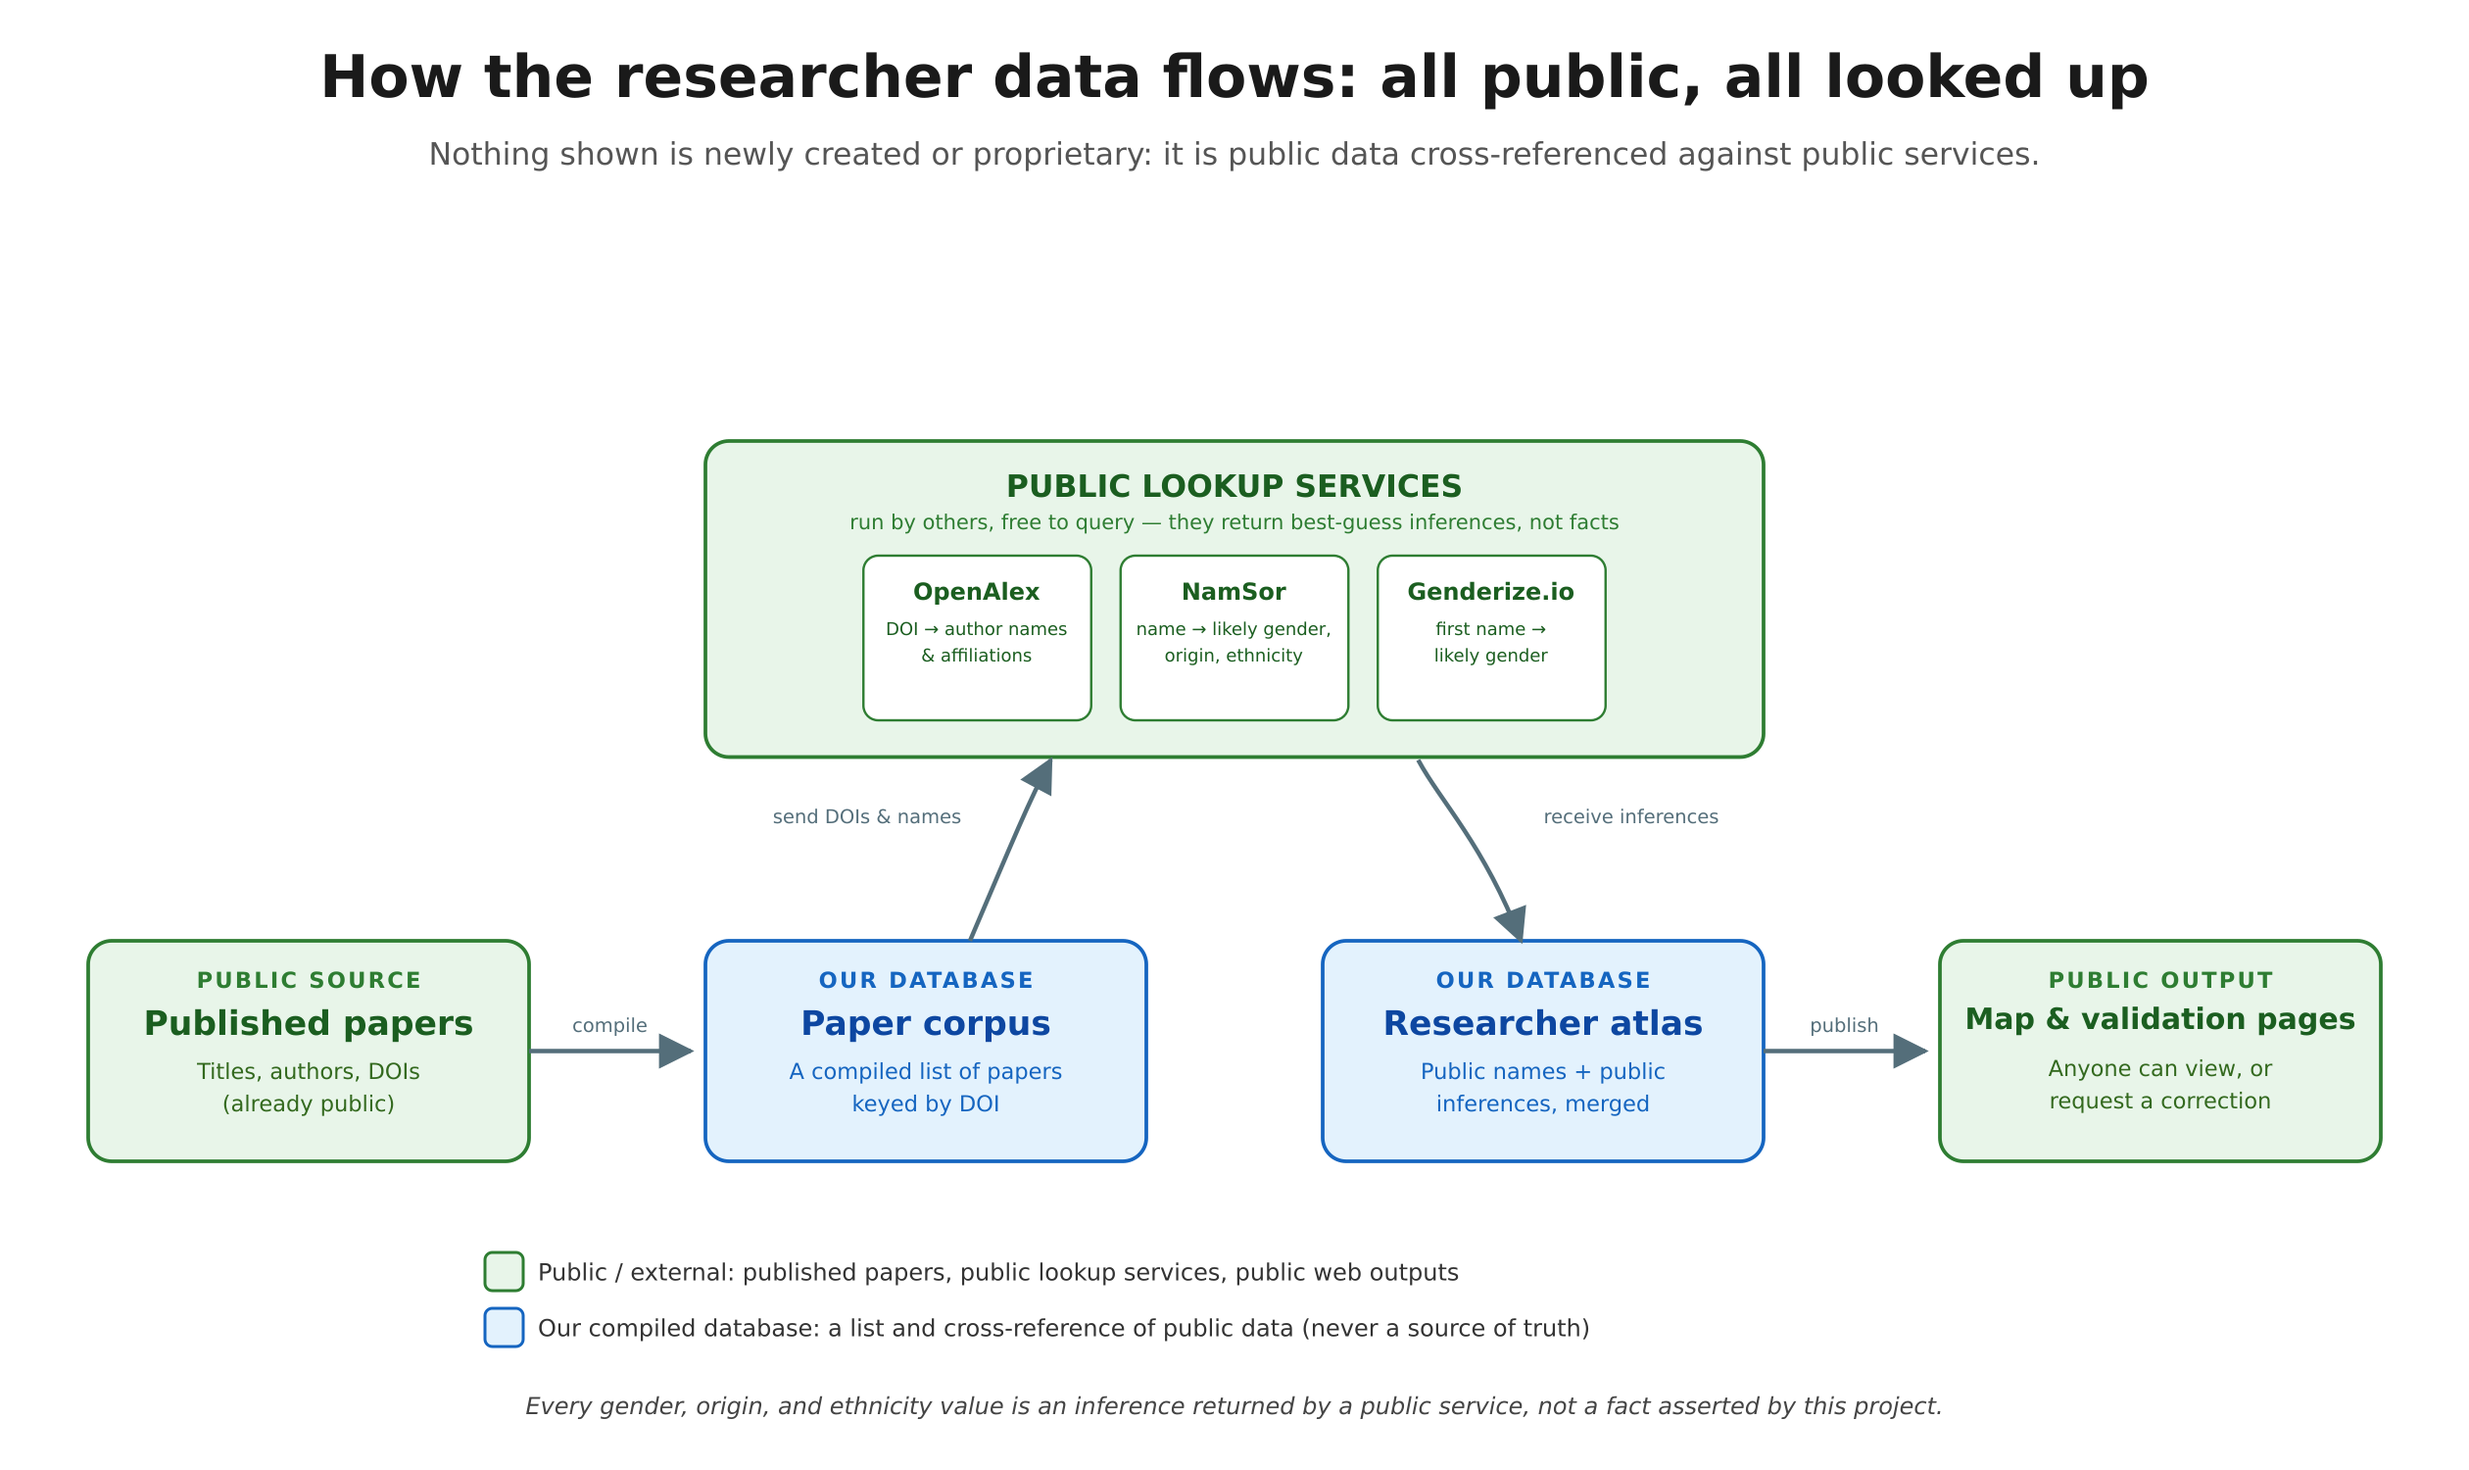
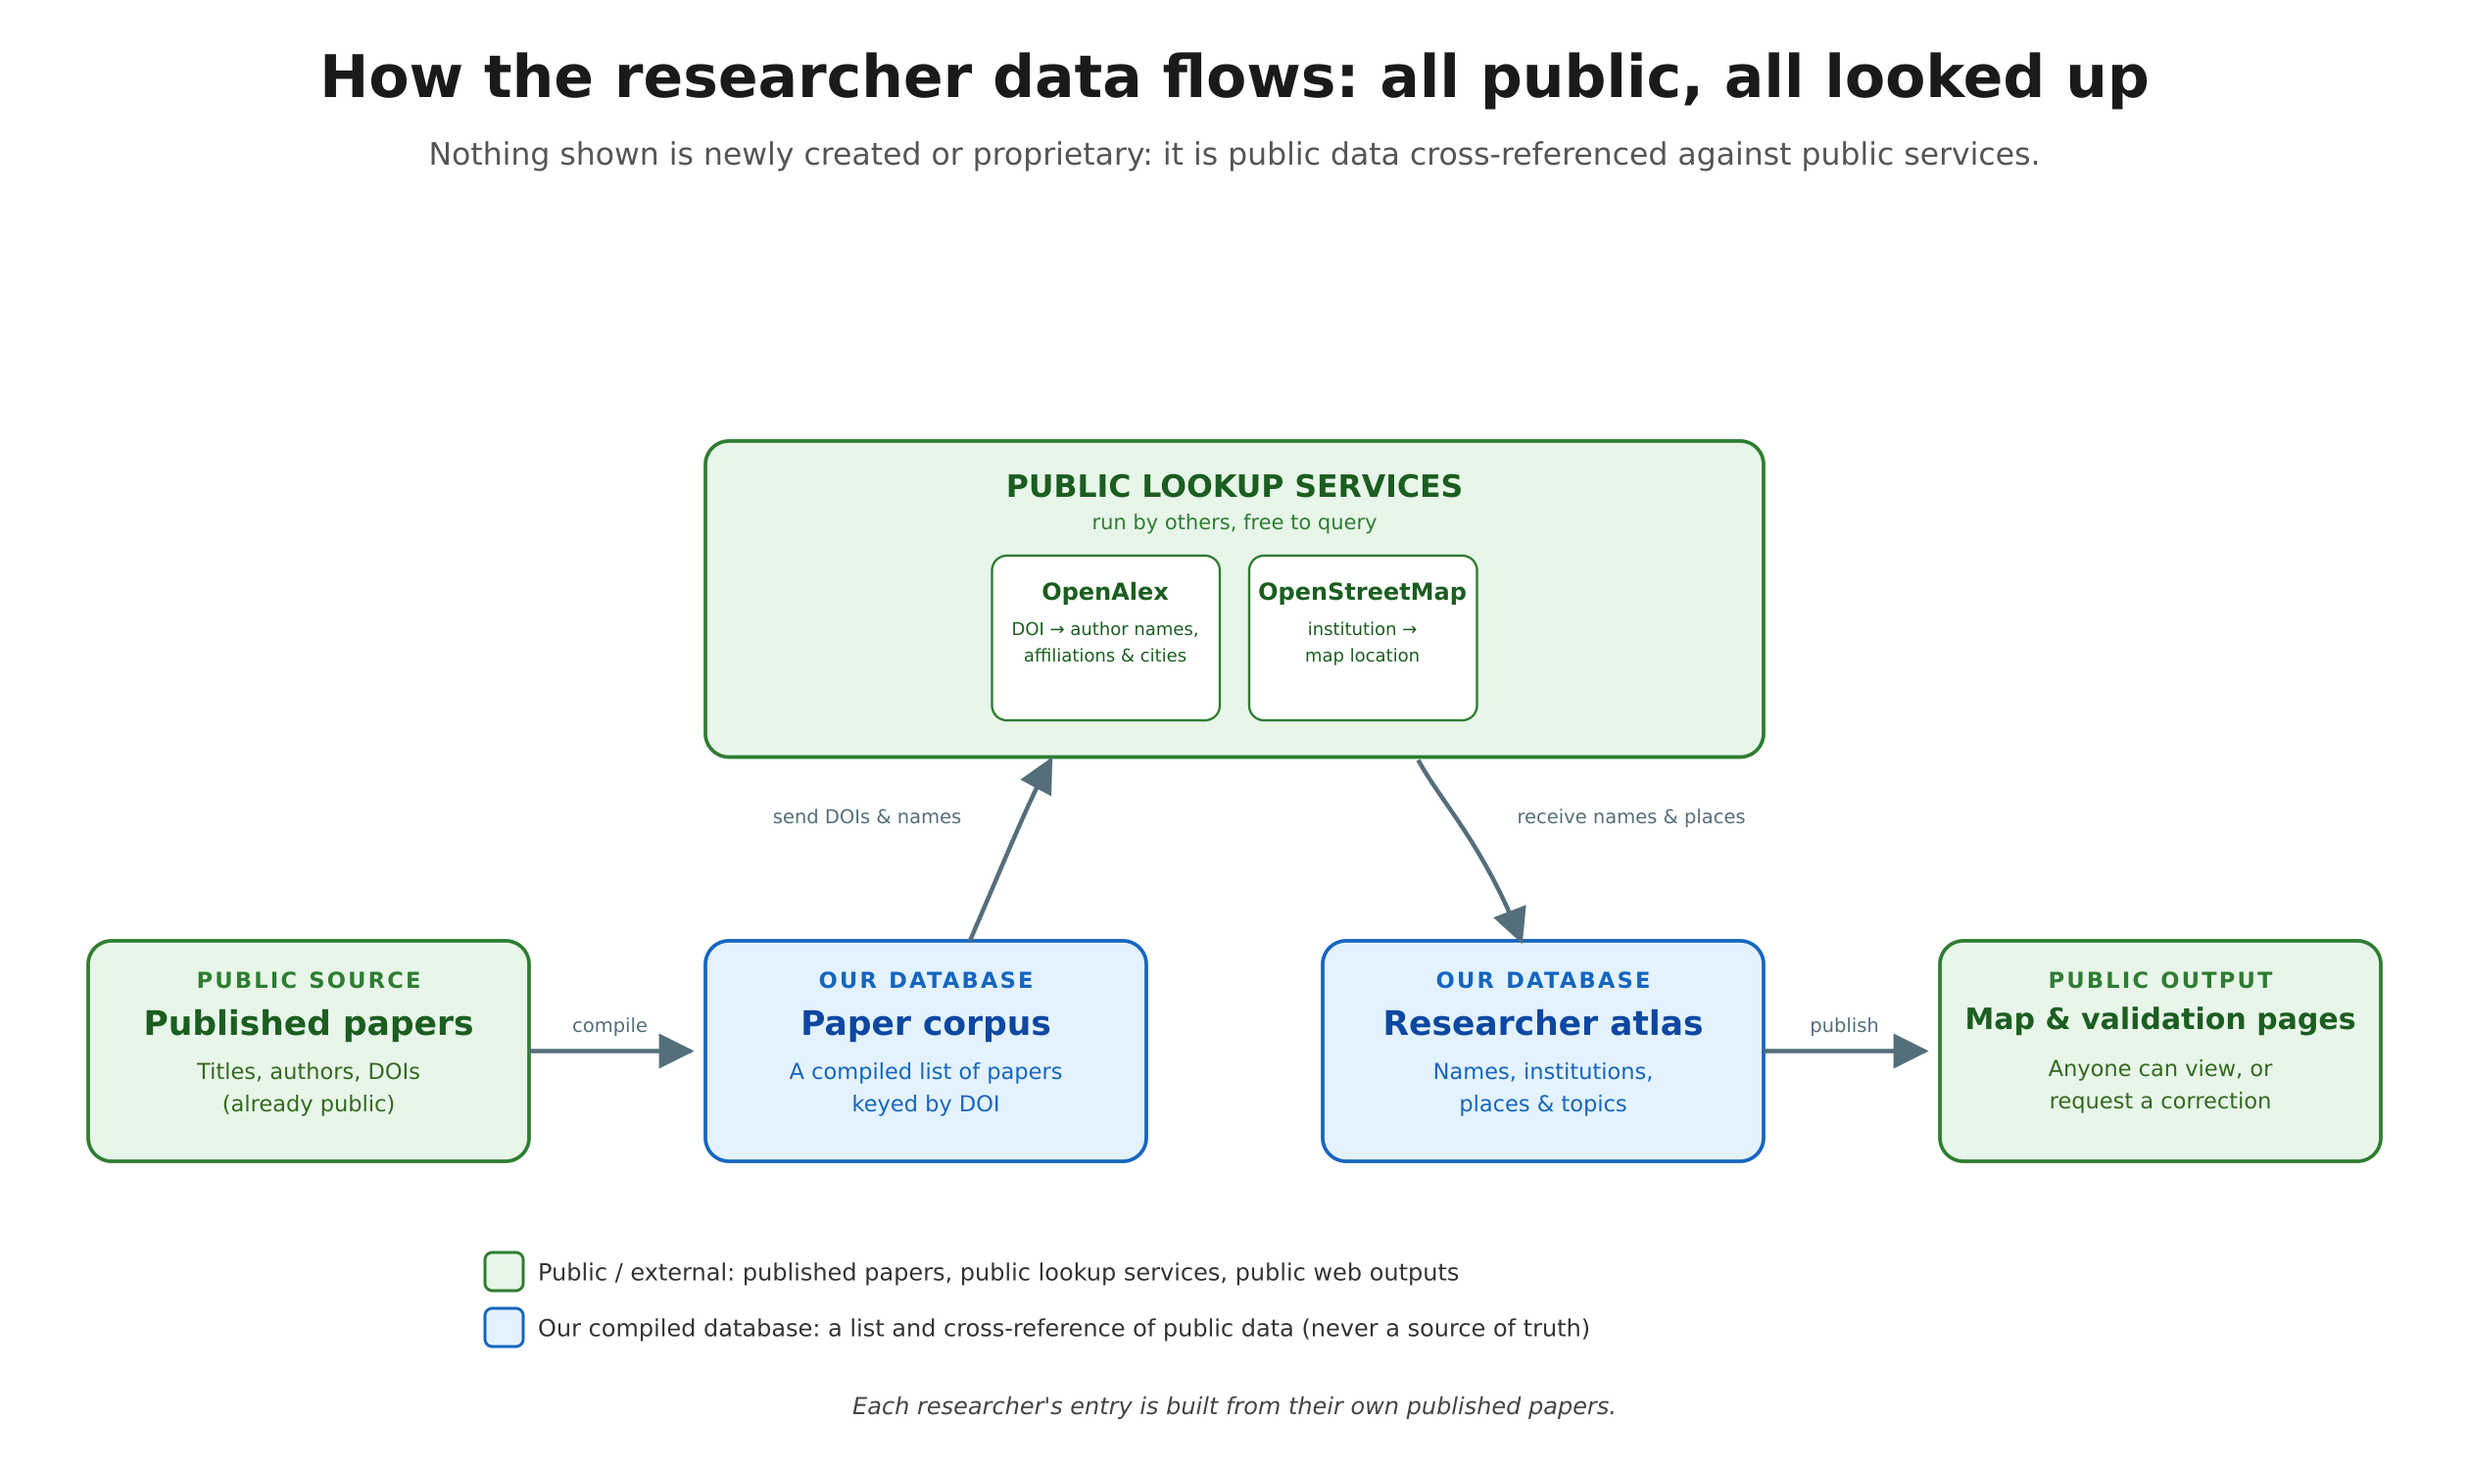
Redraw the researcher-data infographic; fix the Playwright download hook
Infographic: the atlas no longer publishes inferred attributes (591b641704),
so the NamSor and Genderize.io chips, the inference wording, and the footer
about inferred values are gone. The lookup box now shows OpenAlex (names,
affiliations, cities) and OpenStreetMap (institution locations), and the
atlas box lists what it holds: names, institutions, places, and topics.

lib/browser.py: page.on() was given list.append, a built-in that Playwright
cannot tag, so every Driver failed at launch (AttributeError on the first
live run after installing Playwright). A lambda wraps it. Live-tested: the
landing page loads (11 cards) and a PDF download lands intact.

diff --git a/scripts/lib/browser.py b/scripts/lib/browser.py
@@ -226,7 +226,9 @@ class Driver:
 
     # --- internals ---------------------------------------------------------
     def _watch(self, page) -> None:
-        page.on("download", self._pending.append)
+        # A plain function, not list.append: Playwright tags its handlers with an attribute, which a
+        # built-in method can't carry (AttributeError on the first live run, 22 Oct 2026).
+        page.on("download", lambda d: self._pending.append(d))
 
     def _handle_of(self, page) -> str:
         return self._handles.setdefault(id(page), f"pw-{len(self._handles)}")
